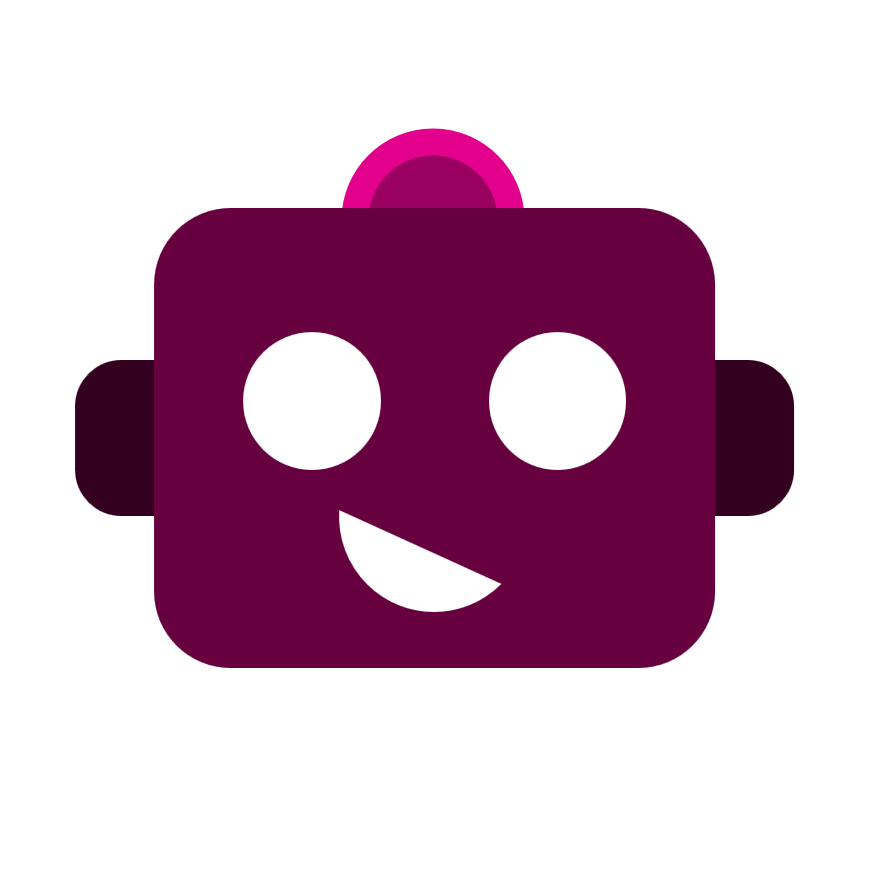
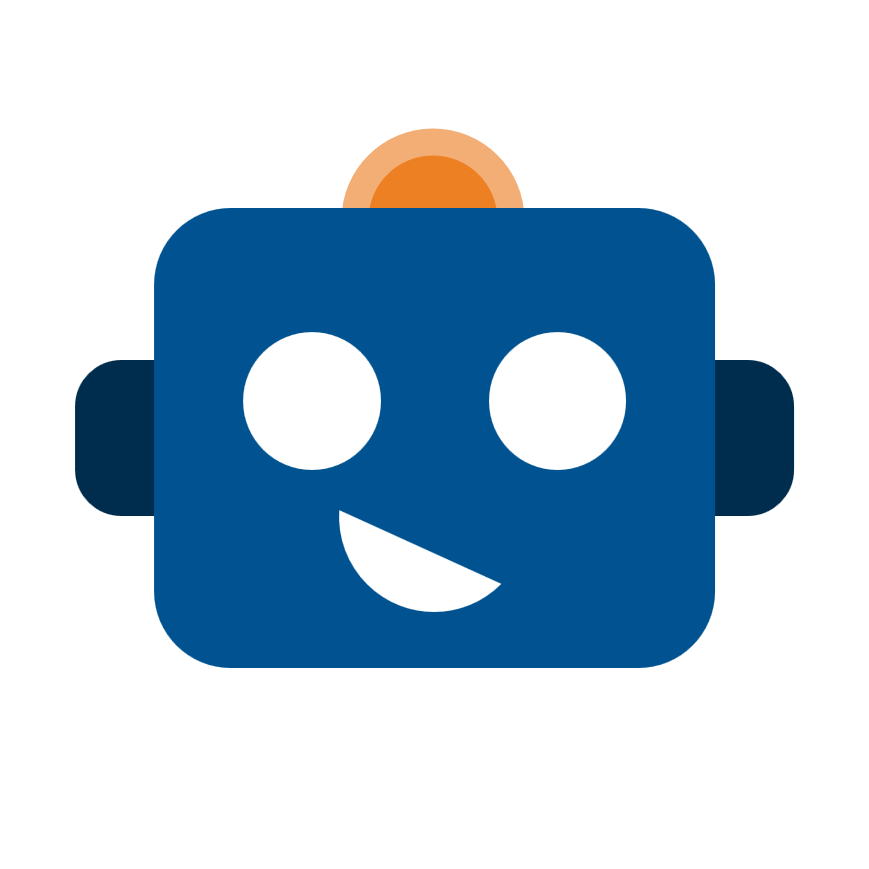
changed design

diff --git a/src/app/app.component.scss b/src/app/app.component.scss
@@ -1,9 +1,9 @@
 @import url("https://fonts.googleapis.com/css2?family=Poppins:ital,wght@0,100;0,200;0,300;0,400;0,500;0,600;0,700;0,800;0,900;1,100;1,200;1,300;1,400;1,500;1,600;1,700;1,800;1,900&display=swap");
 
 :host {
-  --primary-color: hsl(323, 100%, 20%);
-  --primary-color-dark: hsl(323, 100%, 10%);
-  --secondary-color: hsl(284, 21%, 17%);
+  --primary-color: hsl(205, 100%, 28%);
+  --primary-color-dark: hsl(205, 100%, 15%);
+  --secondary-color: hsl(28, 84%, 53%);
 
   font-family: "Poppins", sans-serif;
   box-sizing: border-box;
@@ -35,6 +35,17 @@ main {
   padding: 0;
 }
 
+h1 {
+  font-size: 1.5rem;
+  font-weight: 500;
+  margin: 0;
+  padding: 0;
+
+  @media (min-width: 768px) {
+    font-size: 2rem;
+  }
+}
+
 #img-saclay {
   max-height: 80vh;
   max-width: 80vw;
@@ -61,7 +72,7 @@ main {
   align-items: center;
   height: 30px;
   width: 30px;
-  background: var(--primary-color);
+  background: var(--secondary-color);
   color: white;
   border: none;
   border-radius: 9999px;
@@ -72,7 +83,7 @@ main {
   transition: background 0.2s;
 
   &:hover {
-    background: var(--secondary-color);
+    background: var(--primary-color);
   }
 }
 

diff --git a/src/app/app.component.ts b/src/app/app.component.ts
@@ -105,6 +105,7 @@ export class AppComponent {
         'assets/images/bot_png.png'
       );
       this.renderer.setAttribute(ai_photo_icon, 'width', '40px');
+      this.renderer.setAttribute(ai_photo_icon, 'alt', 'Illustration de robot');
       this.renderer.appendChild(ai_photo, ai_photo_icon);
       this.renderer.appendChild(ai_photo_container, ai_photo);
       this.renderer.appendChild(newMessage_container, ai_photo_container);

diff --git a/src/app/app.component.html b/src/app/app.component.html
@@ -12,7 +12,7 @@
 
     <div id="chat-container">
       <div id="chat-header">
-        <div id="chat-header-text">Saclay AI Chatbot</div>
+        <div id="chat-header-text"><h1>Saclay AI Chatbot</h1></div>
         <div id="close-button" (click)="toggleChat()">
           <mat-icon
             class="tertiary-color"
